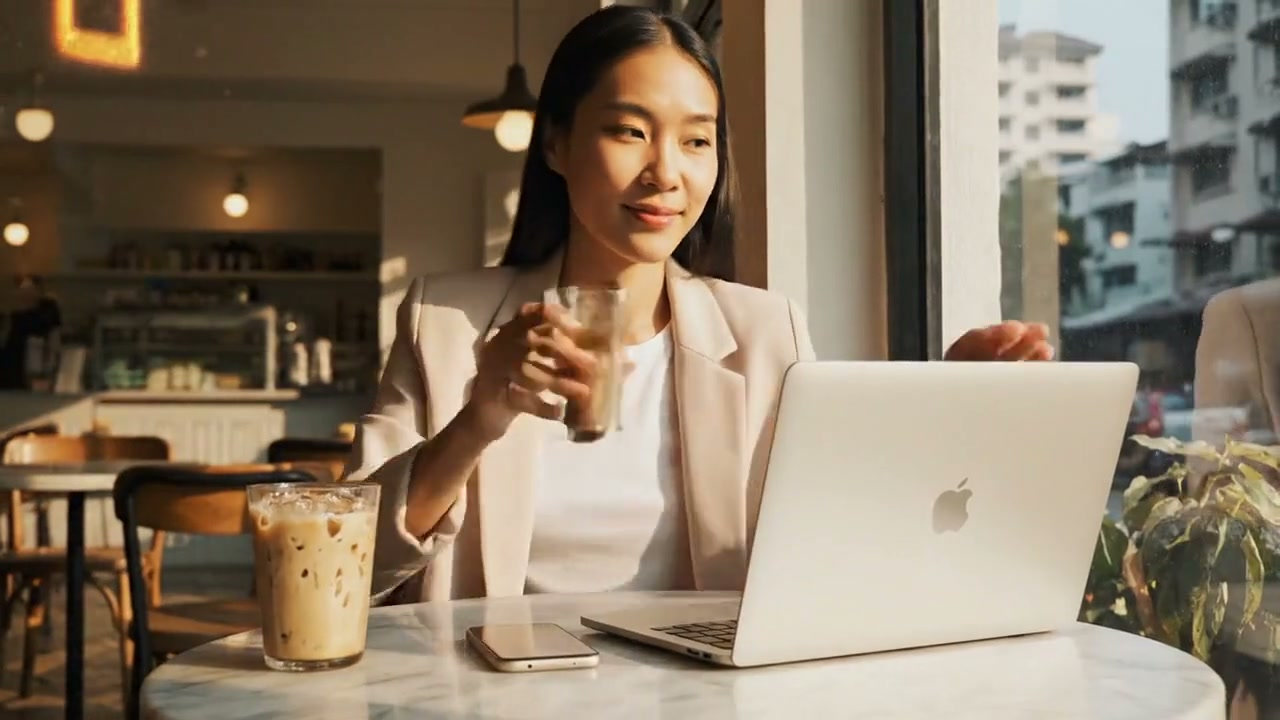
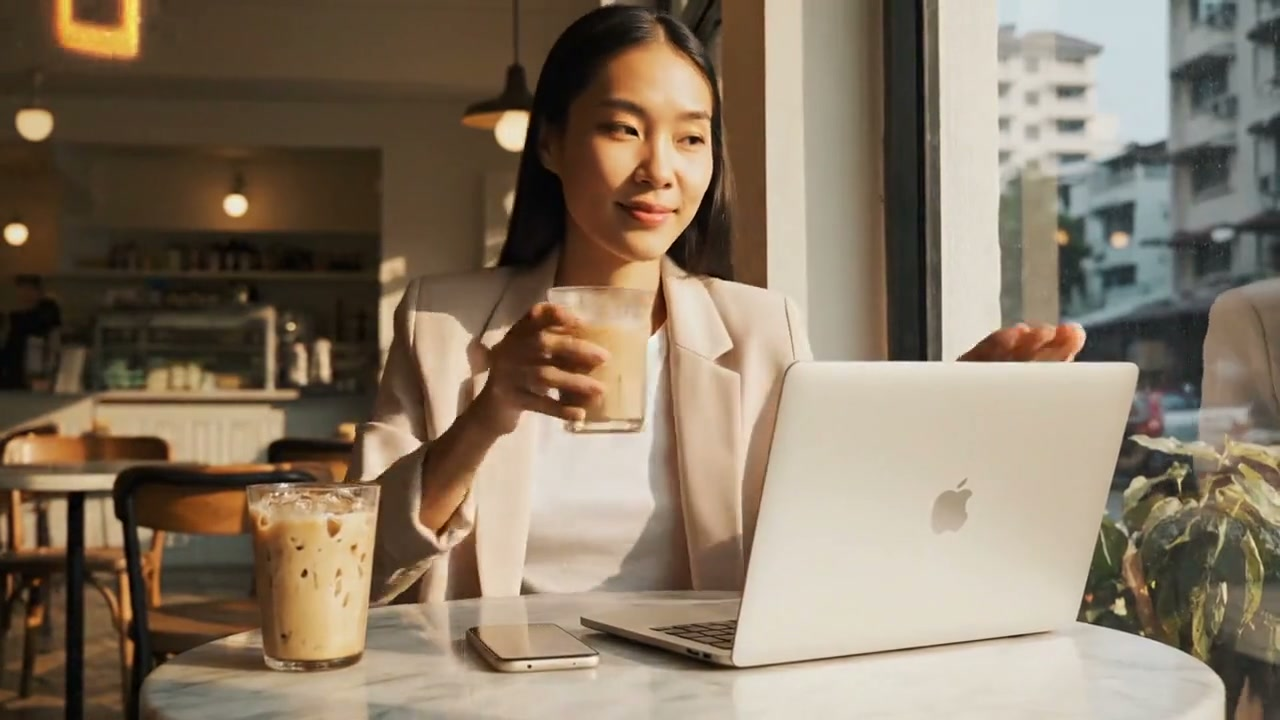
Hero still: use the 2.70s frame so the latte glass is fully in frame
The earlier 2.60s still held the glass low and the hero crop clipped it. The
2.70s frame has her holding the glass up at chest height — fully visible — with
a warm smile, before sipping. Cache-buster v=7.

diff --git a/client/src/pages/HeroStep.tsx b/client/src/pages/HeroStep.tsx
@@ -128,7 +128,7 @@ export default function HeroStep({ onComplete, onSignOut, trialDaysLeft, authed 
       <section style={{ position: "relative", width: "100%", overflow: "hidden", minHeight: isMobile ? 600 : 680, display: "flex", alignItems: "center" }}>
         {/* Background image — smiling still */}
         <img
-          src="/hero-woman.jpg?v=6"
+          src="/hero-woman.jpg?v=7"
           alt=""
           aria-hidden="true"
           style={{ position: "absolute", inset: 0, width: "100%", height: "100%", objectFit: "cover", objectPosition: isMobile ? "center 32%" : "center 34%" }}